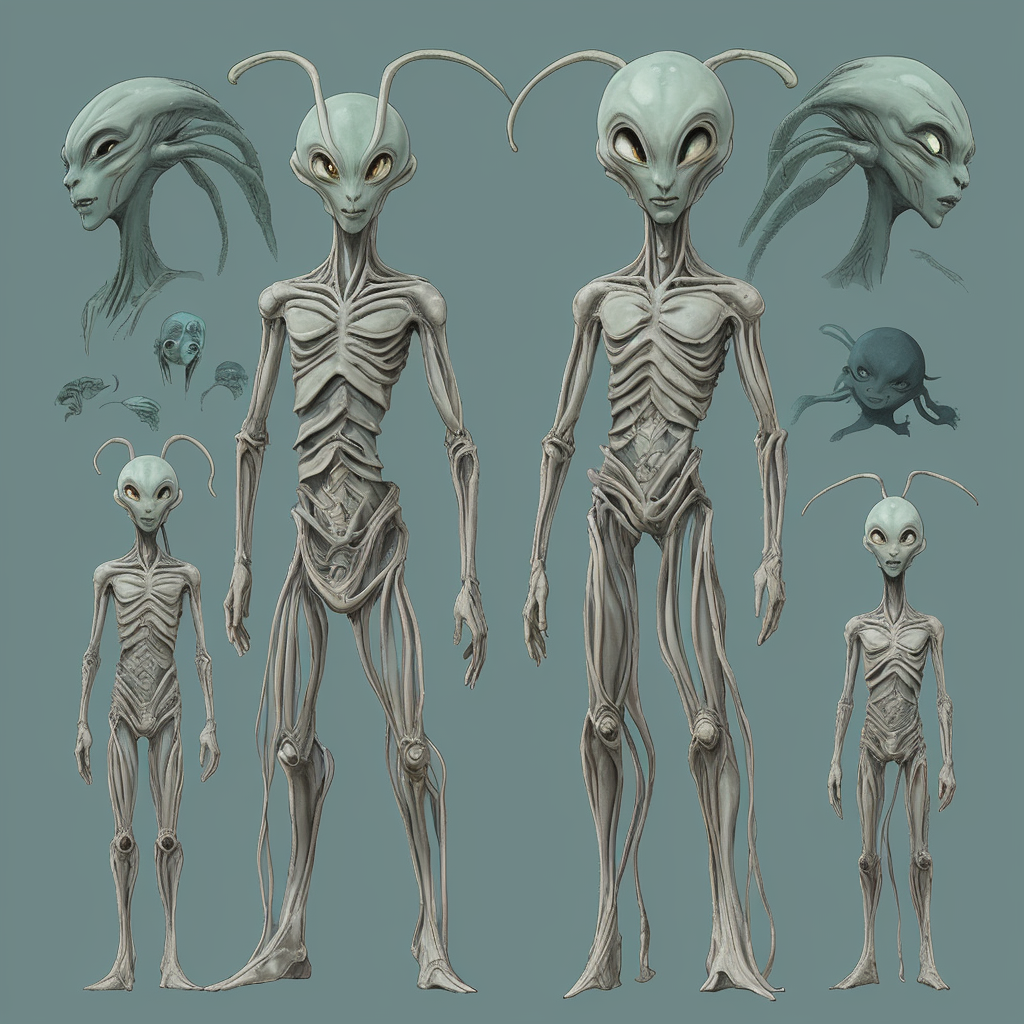
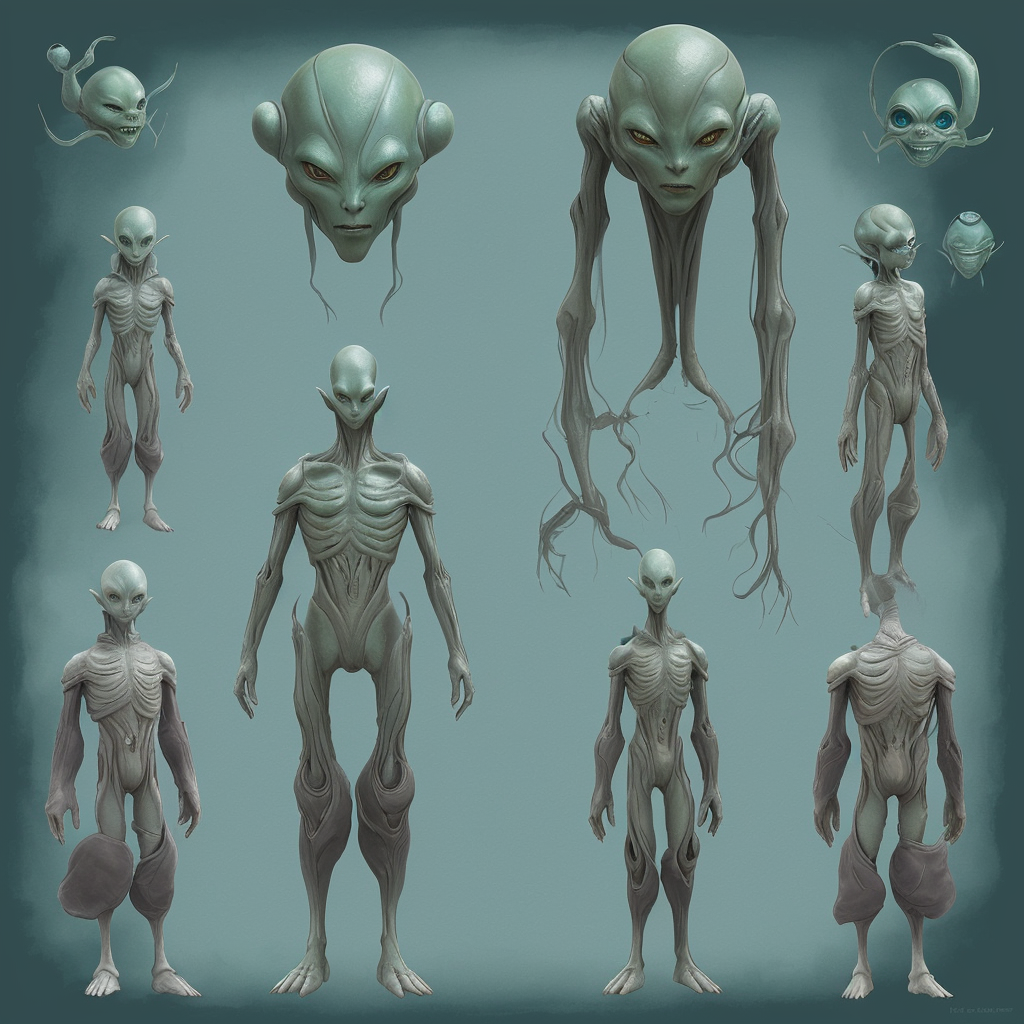
Added image c298e2236000b62554c13581b13668bd to Caneta-Silva/weeb

diff --git a/images/c298e2236000b62554c13581b13668bd/c298e2236000b62554c13581b13668bd.md b/images/c298e2236000b62554c13581b13668bd/c298e2236000b62554c13581b13668bd.md
@@ -9,28 +9,28 @@
 | Field          | Value                                                                                                                     |
 |----------------|---------------------------------------------------------------------------------------------------------------------------|
 | **Image ID**             | c298e2236000b62554c13581b13668bd                                                                                                             |
-| **Title**           | Alien Emperor in Studio Ghibli Style                                                                                                       |
+| **Title**           | Alien Emperor of the Enchanted Galaxy                                                                                                       |
 | **Description**           | Create a landscape full body image of a alien emperor in the style of Studio Ghibli                                                                                                       |
-| **CreatedAt**        | 2024-12-16 14:26:14.172586                                                                                                        |
+| **CreatedAt**        | 2024-12-16 18:44:52.542396                                                                                                        |
 | **Model**        | dreamshaper                                                                                                        |
-| **OpenAI**         | [OpenAI Image URL](http://192.168.1.85:8081/generated-images/b643888016405.png)                                                                                |
+| **OpenAI**         | [OpenAI Image URL](http://192.168.1.85:8081/generated-images/b641655887809.png)                                                                                |
 | **GitHub**         | [GitHub Image URL](https://raw.githubusercontent.com/Caneta-Silva/weeb/refs/heads/main/images/c298e2236000b62554c13581b13668bd/c298e2236000b62554c13581b13668bd.jpg)                                                                                |
 | **Tags**       | None                                                                                                                   |
 
-### 📜 ef5c30bea4a879bb82b91bf23156a006
+### 📜 9b1bd65ae4b17b9dd071def510c8a205
 
 > Create a landscape full body image of a alien emperor in the style of Studio Ghibli
 
 | Field          | Value                                                                                                                                                                      |
 |----------------|----------------------------------------------------------------------------------------------------------------------------------------------------------------------------|
-| **Prompt ID**  | ef5c30bea4a879bb82b91bf23156a006                                                                                                                                                            |
+| **Prompt ID**  | 9b1bd65ae4b17b9dd071def510c8a205                                                                                                                                                            |
 | **Prompt History** | <ul><li>**Input:**  <br> **Output:**  <br> **Type:** </li></ul> |
 | **Created At** |                                                                                                                                                    |
 | **Revised At** | None                                                                                                                                                   |
 | **Revised Prompt** | No                                                                                                                                                                      |
 | **Enhanced At** | None                                                                                                                                                  |
 | **Enhanced Prompt** | No                                                                                                                                                                    |
-| **Metadata**   | <ul><li>**Element:** emperor <br> **Style:** Studio Ghibli <br> **Aspect Ratio:** landscape <br> **Backdrop:** desert landscape <br> **Animal:** horse <br> **Modifiers:**<ul><li>**Image:** full body</li><li>**Element:** alien</li><li>**Backdrop:** futuristic</li></ul></li></ul> |
+| **Metadata**   | <ul><li>**Element:** emperor <br> **Style:** Studio Ghibli <br> **Aspect Ratio:** landscape <br> **Backdrop:** Martial landscape <br> **Animal:** gnu <br> **Modifiers:**<ul><li>**Image:** full body</li><li>**Element:** alien</li><li>**Backdrop:** futuristic alien</li></ul></li></ul> |
 | **Template**   | Create a {{ aspect_ratio }} {{ modifiers.image }} image of a {{ modifiers.element }} {{ element }} in the style of {{ style }}                                                                                                                                           |
 
 
